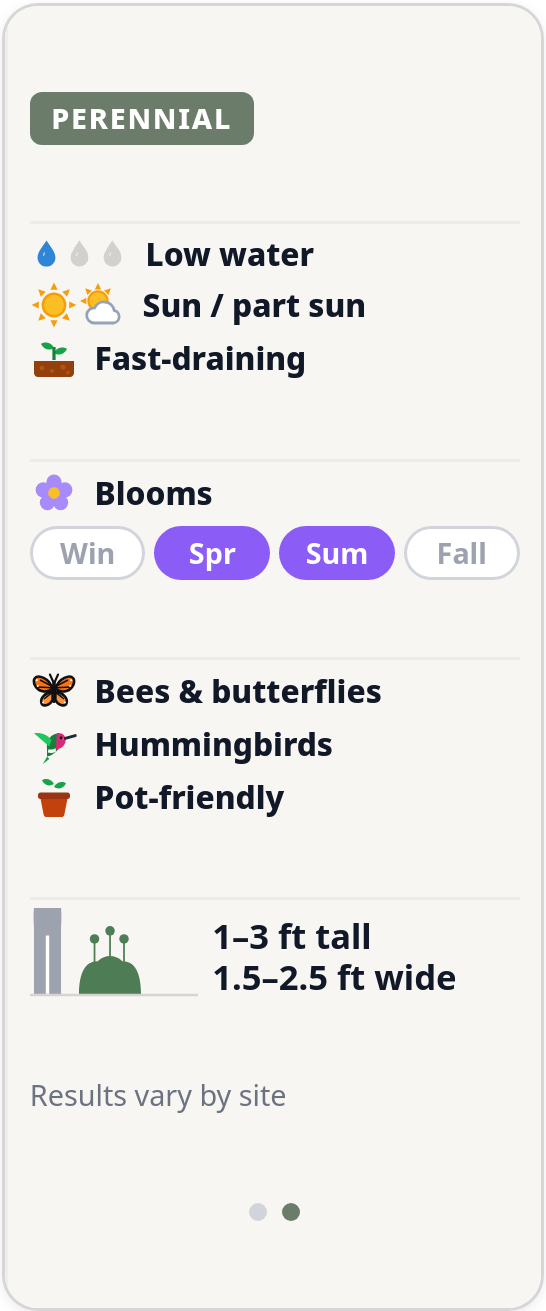
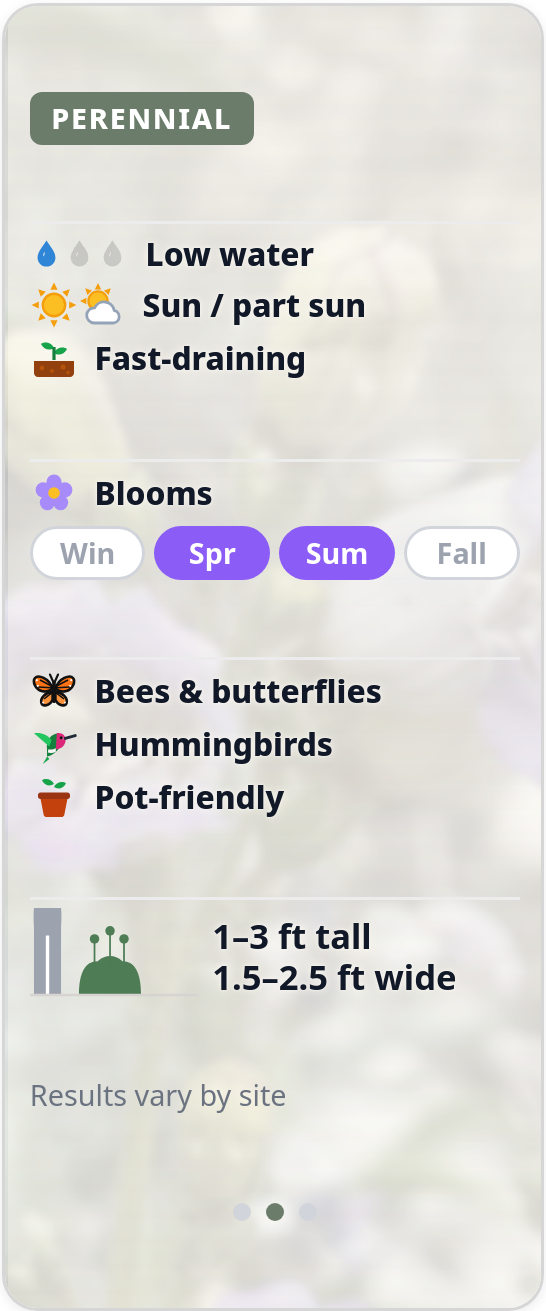
Grinnell's beardtongue photo: Eric's own (ericbg2, obs 83192704), resized only; refresh card screenshots

diff --git a/plant-photos.js b/plant-photos.js
@@ -1,7 +1,7 @@
 /* Plant photos (Eric-approved picks, see docs/photo-credits.md). Key = slug of the common name, matched case-insensitively.
    No entry => leaf placeholder. Woollypod milkweed now uses Eric's own iNaturalist photo (pending his approval). */
-var IENN_PHOTOS = ["white-sage","sticky-monkeyflower","narrow-leaf-milkweed","black-sage","california-buckwheat","california-encelia","california-poppy","desert-marigold","matilija-poppy","morning-glory","rock-monkeyflower","scarlet-bugler","showy-penstemon","sugarbush","yarrow","deergrass","showy-milkweed","yucca","toyon","woolly-blue-curls","sacred-datura","woollypod-milkweed","coyote-brush","bush-poppy","purple-sage","brittlebush","cleveland-sage","hummingbird-sage","california-sagebrush","california-fuchsia","arizona-cypress","four-winged-saltbush","deerweed","apricot-mallow","scarlet-monkeyflower","conejo-buckwheat","blue-grama","st-catherine-s-lace"];
-var IENN_PHOTO_ALIAS = { "st-catherines-lace": "st-catherine-s-lace", "saint-catherine-s-lace": "st-catherine-s-lace", "datura": "sacred-datura", "narrowleaf-milkweed": "narrow-leaf-milkweed", "buckwheat": "california-buckwheat", "encelia": "california-encelia", "bush-sunflower": "california-encelia", "poppy": "california-poppy", "matilija": "matilija-poppy", "bunch-grass-deer": "deergrass", "deer-grass": "deergrass", "chaparral-yucca": "yucca", "our-lord-s-candle": "yucca", "monkeyflower": "sticky-monkeyflower", "southern-bush-monkeyflower": "sticky-monkeyflower", "bush-monkeyflower": "sticky-monkeyflower", "penstemon": "showy-penstemon", "wild-morning-glory": "morning-glory", "island-morning-glory": "morning-glory", "california-brittlebush": "california-encelia", "arizona-cypress-blue-pyramid": "arizona-cypress" };
+var IENN_PHOTOS = ["white-sage","sticky-monkeyflower","narrow-leaf-milkweed","black-sage","california-buckwheat","california-encelia","california-poppy","desert-marigold","matilija-poppy","morning-glory","rock-monkeyflower","scarlet-bugler","showy-penstemon","sugarbush","yarrow","deergrass","showy-milkweed","yucca","toyon","woolly-blue-curls","sacred-datura","woollypod-milkweed","coyote-brush","bush-poppy","purple-sage","brittlebush","cleveland-sage","hummingbird-sage","california-sagebrush","california-fuchsia","arizona-cypress","four-winged-saltbush","deerweed","apricot-mallow","scarlet-monkeyflower","conejo-buckwheat","blue-grama","st-catherine-s-lace","grinnell-s-beardtongue"];
+var IENN_PHOTO_ALIAS = { "grinnells-beardtongue": "grinnell-s-beardtongue", "southern-woodland-penstemon": "grinnell-s-beardtongue", "st-catherines-lace": "st-catherine-s-lace", "saint-catherine-s-lace": "st-catherine-s-lace", "datura": "sacred-datura", "narrowleaf-milkweed": "narrow-leaf-milkweed", "buckwheat": "california-buckwheat", "encelia": "california-encelia", "bush-sunflower": "california-encelia", "poppy": "california-poppy", "matilija": "matilija-poppy", "bunch-grass-deer": "deergrass", "deer-grass": "deergrass", "chaparral-yucca": "yucca", "our-lord-s-candle": "yucca", "monkeyflower": "sticky-monkeyflower", "southern-bush-monkeyflower": "sticky-monkeyflower", "bush-monkeyflower": "sticky-monkeyflower", "penstemon": "showy-penstemon", "wild-morning-glory": "morning-glory", "island-morning-glory": "morning-glory", "california-brittlebush": "california-encelia", "arizona-cypress-blue-pyramid": "arizona-cypress" };
 /* Photos that need a visible attribution on the card (e.g. CC BY). */
 var IENN_PHOTO_CREDITS = {
  "deergrass": {

diff --git a/assets/plants/CREDITS.md b/assets/plants/CREDITS.md
@@ -1,6 +1,6 @@
 # Plant photo credits
 
-Single photo set: `assets/plants/<slug>.jpg` (800px max) and `<slug>-400.jpg` (400px, via `srcset`), mapped by common name in `plant-photos.js` (`IENN_PHOTOS`). Eric-approved ★ picks from `docs/photo-choices/README.md` (board v2), plus toyon and woolly blue curls (Eric's own iNaturalist photos). Files were only resized and recompressed. A photo from the feed (Catalog `Photo` column) still takes priority.
+Single photo set: `assets/plants/<slug>.jpg` (800px max) and `<slug>-400.jpg` (400px, via `srcset`), mapped by common name in `plant-photos.js` (`IENN_PHOTOS`). Eric-approved ★ picks from `docs/photo-choices/README.md` (board v2), plus toyon, woolly blue curls and Grinnell's beardtongue (Eric's own iNaturalist photos). Files were only resized and recompressed. A photo from the feed (Catalog `Photo` column) still takes priority.
 
 | File | Plant | Source | Link |
 |---|---|---|---|
@@ -24,6 +24,7 @@ Single photo set: `assets/plants/<slug>.jpg` (800px max) and `<slug>-400.jpg` (4
 | showy-milkweed.jpg | Showy milkweed | "Asclepias speciosa - Showy Milkweed (7-15-24) 02" by Jasper Shide, Wikimedia Commons, CC0 1.0 (verified on the file page Oct 20, 2026). From main 9f30bea; not the catalogue file. | https://commons.wikimedia.org/wiki/File:Asclepias_speciosa_-_Showy_Milkweed_(7-15-24)_02.jpg |
 | toyon.jpg | Toyon | Eric Bo Garcia (ericbg2) via iNaturalist, 2022-12-15, Willits, CA, US | https://www.inaturalist.org/observations/144448253 |
 | woolly-blue-curls.jpg | Woolly blue curls | Eric Bo Garcia (ericbg2) via iNaturalist, 2025-05-16, Fontana, CA | https://www.inaturalist.org/observations/282646314 |
+| grinnell-s-beardtongue.jpg | Grinnell's beardtongue | Eric Bo Garcia (ericbg2) via iNaturalist (photo 136610234), 2021-06-15, San Bernardino National Forest, Mentone, CA; resized only | https://www.inaturalist.org/observations/83192704 |
 
 Eric's photos (catalogue and ericbg2) are © Eric Bo Garcia / IENN. The keithwg1 photos are © Keith and used with his permission. Showy milkweed is CC0 1.0 (Wikimedia Commons).
 

diff --git a/docs/factcheck-2026-10-25d.md b/docs/factcheck-2026-10-25d.md
@@ -69,7 +69,7 @@ Requested by Eric as "penstemon grindelili". The correct spelling is *Penstemon 
 7. **Fragrance:** only Las Pilitas mentions it. Not set.
 
 ## Photos
-Not added in this PR. Candidates for Eric to pick from are in `/workspace/ienn-photo-candidates/penstemon-grinnellii/`, with `CANDIDATES.md` (license, author, URL) and `contact-sheet.jpg`:
+**Eric picked #02** (his own, ericbg2, obs 83192704, photo 136610234, Mentone 2021): `assets/plants/grinnell-s-beardtongue.jpg` + `-400.jpg`, resized only, no on-card credit (same as his other photos). Candidates for Eric to pick from are in `/workspace/ienn-photo-candidates/penstemon-grinnellii/`, with `CANDIDATES.md` (license, author, URL) and `contact-sheet.jpg`:
 - 3 of Eric's own (ericbg2, obs 83192704 and 223651067).
 - 4 openly licensed backups (CC0 or CC BY 4.0, research grade, SoCal).
 
